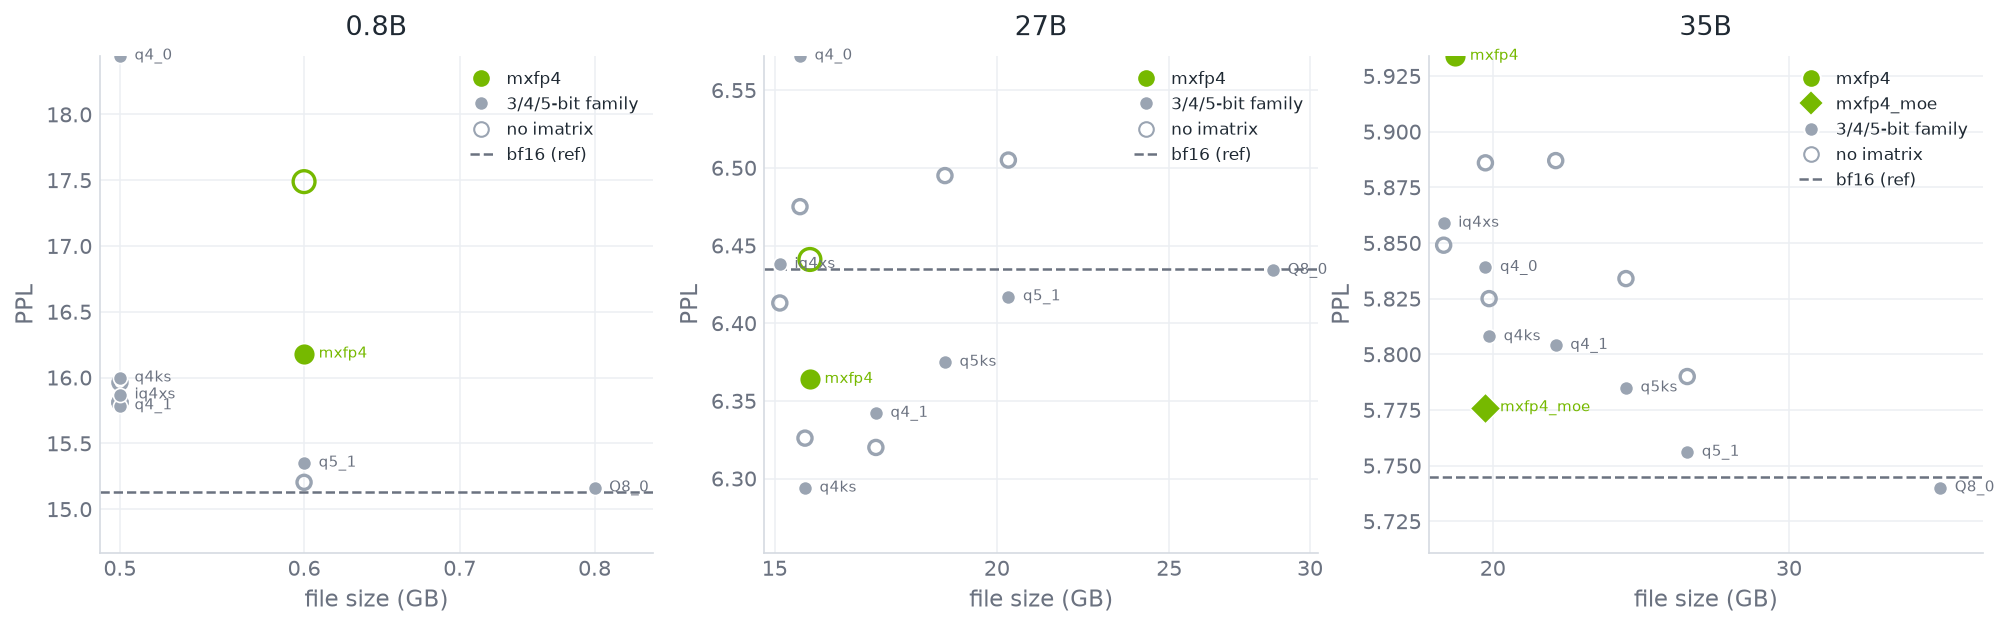
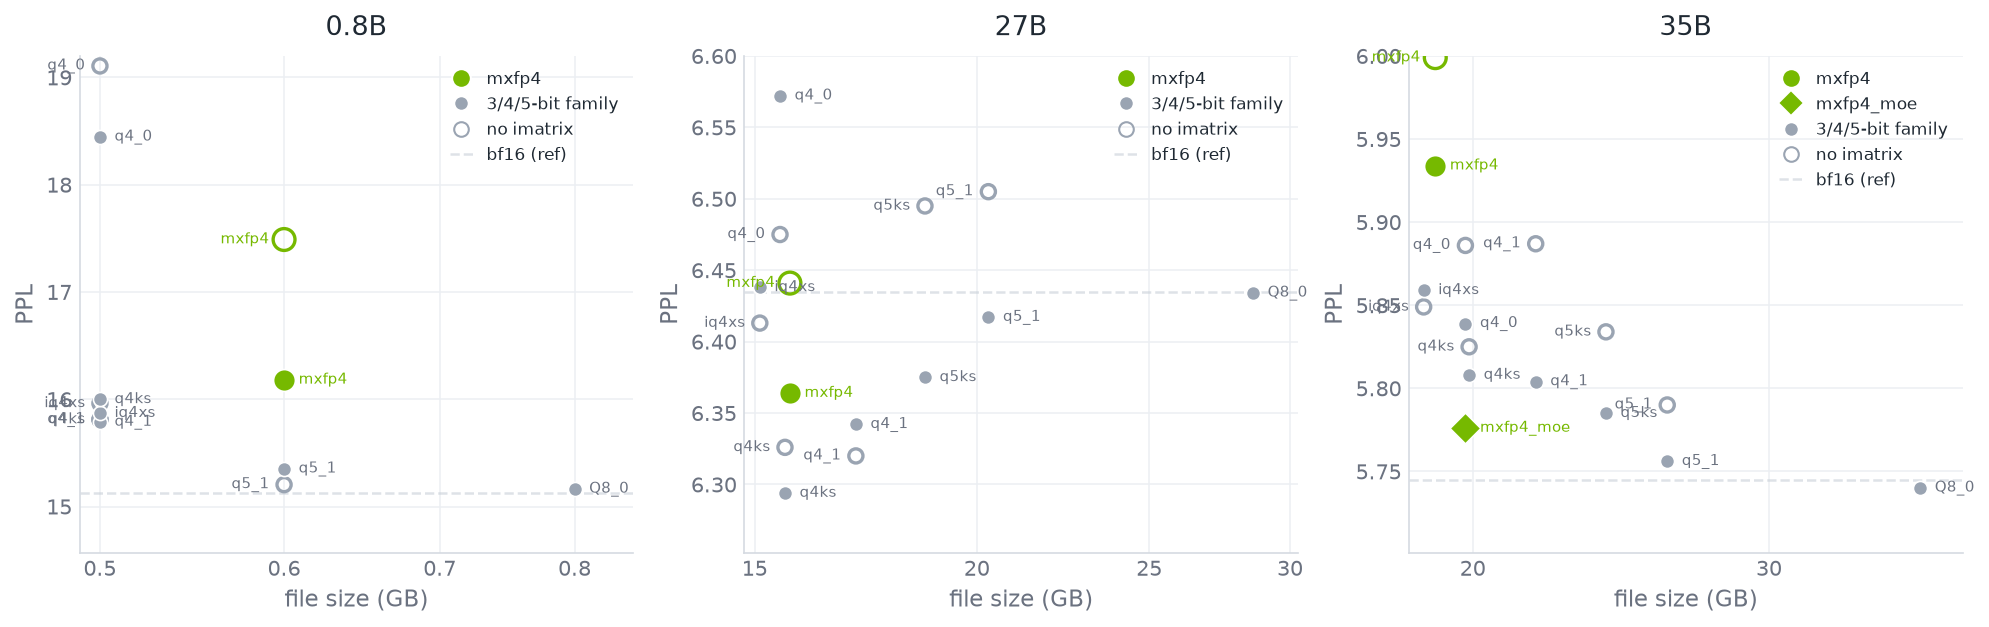
Charts: ppl - label no-imx circles (left side), y-top rounded up to next 0.1 above all dots, bf16 ref line lighter and semi-transparent
Assisted-by: pi

diff --git a/charts.py b/charts.py
@@ -13,6 +13,7 @@ matplotlib.use("Agg")
 import matplotlib.pyplot as plt
 from matplotlib.lines import Line2D
 import numpy as np
+import math
 import os
 
 OUT = os.path.dirname(os.path.abspath(__file__))
@@ -144,6 +145,9 @@ def scatter_quant_points(ax, rows):
         ax.scatter([size], [imx], s=s, c=col, marker=marker, zorder=5, edgecolors="white", linewidths=0.8)
         if noimx is not None:
             ax.scatter([size], [noimx], s=s, facecolors="none", edgecolors=col, linewidths=1.6, marker=marker, zorder=4)
+            ax.annotate(disp, (size, noimx), textcoords="offset points", xytext=(-7, 0),
+                        fontsize=7, color=(PALETTE["mx"] if is_mx else PALETTE["muted"]),
+                        ha="right", va="center", zorder=6)
         ax.annotate(disp, (size, imx), textcoords="offset points", xytext=(7, 0),
                     fontsize=7, color=(PALETTE["mx"] if is_mx else PALETTE["muted"]),
                     ha="left", va="center", zorder=6)
@@ -152,7 +156,7 @@ def scatter_quant_points(ax, rows):
         items.append(Line2D([0], [0], marker="D", ls="", ms=9, mec="white", mfc=PALETTE["mx"], label="mxfp4_moe"))
     items.append(Line2D([0], [0], marker="o", ls="", ms=7, mec="white", mfc=PALETTE["other"], label="3/4/5-bit family"))
     items.append(Line2D([0], [0], marker="o", ls="", ms=7, mec=PALETTE["other"], mfc="none", label="no imatrix"))
-    items.append(Line2D([0], [0], color=PALETTE["muted"], ls="--", lw=1.2, label="bf16 (ref)"))
+    items.append(Line2D([0], [0], color="#C8CFD8", ls="--", lw=1.2, alpha=0.6, label="bf16 (ref)"))
     ax.legend(handles=items, loc="upper right", frameon=False, fontsize=8, ncol=1, handlelength=1.4, borderaxespad=0.5)
     return
 
@@ -165,16 +169,20 @@ def ppl_vs_size():
         scatter_quant_points(ax, plot_rows)
         bf16 = next((r[2] for r in rows if r[0] == "bf16"), None)
         if bf16 is not None:
-            ax.axhline(bf16, color=PALETTE["muted"], linestyle="--", linewidth=1.2, zorder=2)
+            ax.axhline(bf16, color="#C8CFD8", linestyle="--", linewidth=1.2, alpha=0.6, zorder=2)
         ax.set_xlim(min(r[1] for r in plot_rows) * 0.98, max(r[1] for r in plot_rows) * 1.06)
         from matplotlib.ticker import FuncFormatter, MaxNLocator
         # log scale, but the range spans < 1 decade: place regular-number ticks with a linear-style locator
         ax.xaxis.set_major_locator(MaxNLocator(nbins=4, steps=[1, 2, 2.5, 5, 10]))
         ax.xaxis.set_major_formatter(FuncFormatter(lambda v, _: f"{v:.1f}" if v < 10 else f"{v:.0f}"))
-        ppls = [r[2] for r in plot_rows]
-        ymin, ymax = min(ppls), max(ppls)
+        allvals = [r[2] for r in plot_rows] + [r[3] for r in plot_rows if r[3] is not None]
+        ymin, ymax = min(allvals), max(allvals)
         pad = (ymax - ymin) * 0.15
-        ax.set_ylim(ymin - pad, ymax)
+        # round the top up to the next 0.1 so no dot sits on (or above) the axis edge
+        top = math.ceil(ymax * 10 - 1e-9) / 10
+        if top <= ymax + 1e-9:
+            top += 0.1
+        ax.set_ylim(ymin - pad, top)
     save(fig, "ppl-vs-size.png")
     return
 
